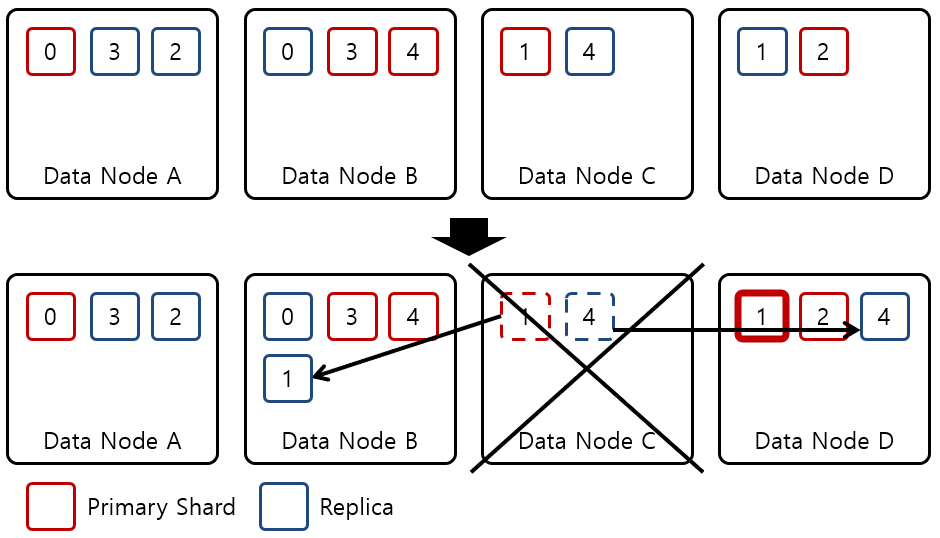
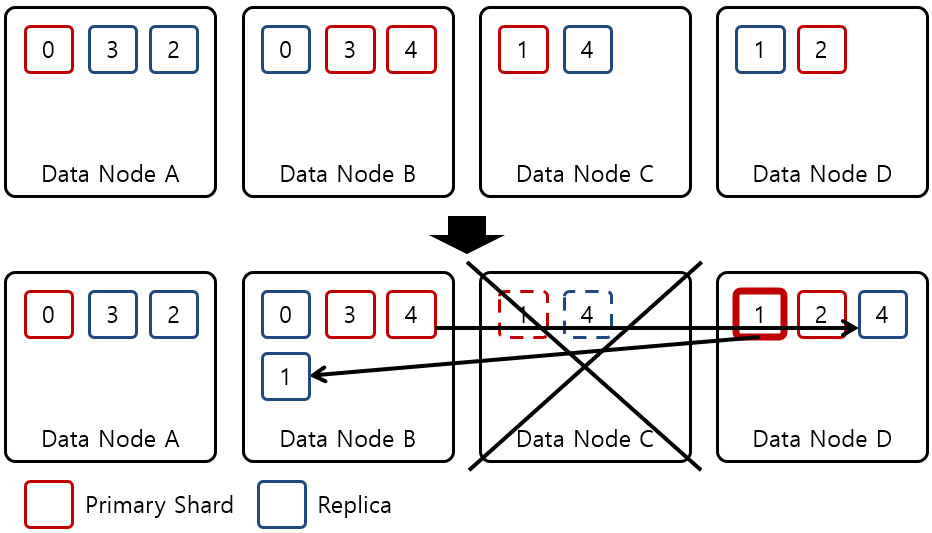
Update

diff --git a/_docs/theory_analysis/Elasticsearch_Data_Management.md b/_docs/theory_analysis/Elasticsearch_Data_Management.md
@@ -15,6 +15,8 @@ Elasticsearch의 Data Management 관련 내용을 분석한다.
 
 ![[그림 1] Data Structure]({{site.baseurl}}/images/theory_analysis/Elasticsearch_Data_Management/Elasticsearch_Data_Structure.PNG){: width="600px"}
 
+[그림 1]은 Elasticsearch의 Data Sturcture를 나타내고 있다. Elasticsearch의 Data는 **Index, Type, Document** 3단계로 구성되어 있다. Document는 Json 형태의 Tree 구조로 Data를 저장한다. Document의 집합을 Type이라고 명칭한다. Type의 집합을 Index라고 명칭한다. MySQL과 비교하면 Index는 Database, Type은 Table, Document는 Row/Column으로 Mapping된다.
+
 {% highlight json %}
 {
   "_index" : "index",
@@ -33,15 +35,24 @@ Elasticsearch의 Data Management 관련 내용을 분석한다.
 }
 {% endhighlight %}
 <figure>
-<figcaption class="caption">[Data 1] Document Structure</figcaption>
+<figcaption class="caption">[Data 1] Document Info</figcaption>
 </figure>
+
+[Data 1]은 Elasticsearch로 부터 얻은 Document의 정보를 나타내고 있다. _index, _type은 Document가 소속되어 있는 Index, Type을 나타낸다. _id는 Document의 ID를 나타낸다. _version은 Document의 Version을 나타내며 Document가 Update 될때마다 _version의 값은 증가한다. _source는 Document의 실제 Data를 나타낸다.
 
 #### 1.2. Shard, Replica
 
-![[그림 2] Shard, Replica]({{site.baseurl}}/images/theory_analysis/Elasticsearch_Data_Management/Elasticsearch_Shard_Replica.PNG){: width="600px"}
+[그림 2]는 Elastic Search에서 관리하는 Shard와 Replica를 나타낸다. 원본 Shard를 Primary Shard 라고 명칭하며 Primary Shard의 복제본을 Replica라고 명칭한다. Shard와 Replica는 모두 **Index 단위**로 설정이 가능하며, Shard의 개수는 Index가 생성 될때만 설정이 가능하고 Index가 생성된 이후에는 변경이 불가능하다. Replica의 개수는 자유롭게 변경이 가능하다.
+
+![[그림 3] Shard, Replica Recovery]({{site.baseurl}}/images/theory_analysis/Elasticsearch_Data_Management/Elasticsearch_Shard_Replica.PNG){: width="600px"}
+
+[그림 3]에서는 Data Node에 장애가 발생하였을때 Shard, Replica의 복구 과정을 나타내고 있다. [그림 3]에서는 Shard의 개수는 5개, Replica의 개수는 1개인 Index를 나타내고 있다. Data Node C에서 장애가 발생할 경우, Data Node C에는 1번 Primary Shard가 존재하고 있었기 때문에 Data Node D에 있던 1번 Replica는 Primary Shard가 된다. 그 후 Replica 개수 1개를 맞추기 위해서 Data Node D에 있는 1번 Primary Shard를 1번 Replica가 존재하지 않는 Data Node B에 복제되었다.
+
+Data Node C에는 4번 Replica가 존재하고 있었기 때문에, Replica 개수 1개를 맞추기 위해서 Data Node B에 있는 4번 Primary Shard는 4번 Replica가 존재하지 않는 Data Node D에 복제되었다.
 
 ### 2. 참조
 
 * [https://www.elastic.co/kr/blog/what-is-an-elasticsearch-index](https://www.elastic.co/kr/blog/what-is-an-elasticsearch-index)
 * [https://esbook.kimjmin.net/03-cluster/3.2-index-and-shards](https://esbook.kimjmin.net/03-cluster/3.2-index-and-shards)
+* [https://www.elastic.co/guide/en/elasticsearch/reference/current/docs-replication.html](https://www.elastic.co/guide/en/elasticsearch/reference/current/docs-replication.html)
 * [https://nesoy.github.io/articles/2019-01/ElasticSearch-Document](https://nesoy.github.io/articles/2019-01/ElasticSearch-Document)
